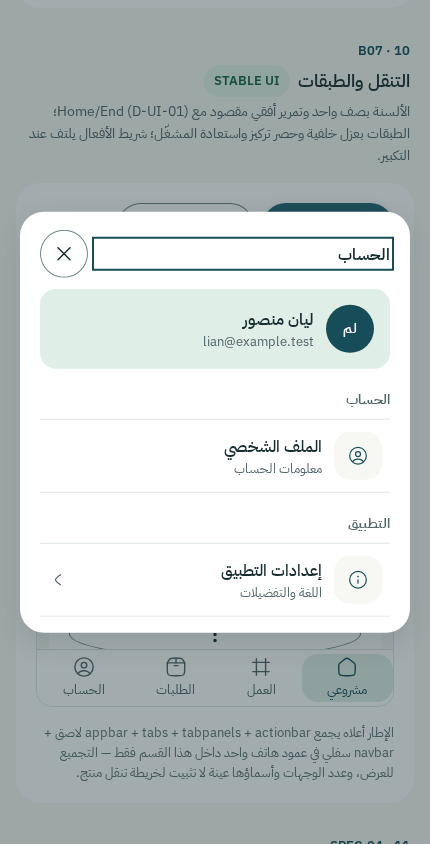
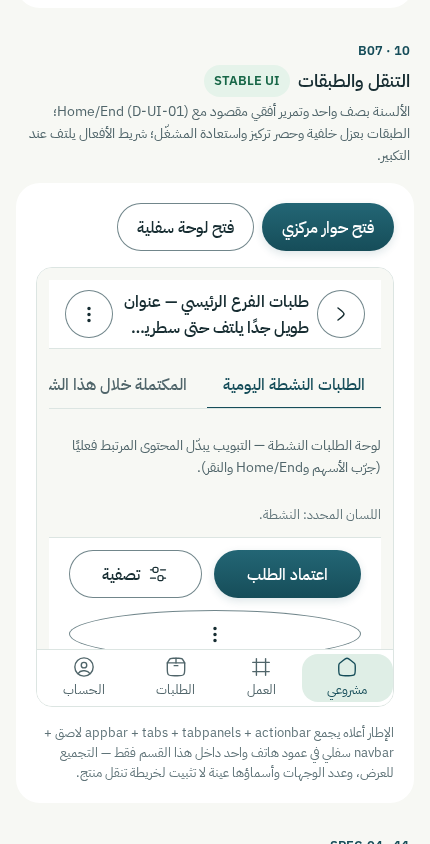
review,rev-2: layers/navigation specialist findings applied — behavioral probe gates + honest fixture wording
Specialist 2 (read-only) CONFIRMED F-02/F-03/F-04/F-10/F-14 with measurements
(1 close/1 title; standalone close fires exactly once without closing an
open layer; peek 18px + centered delta 0; RTL-logical order under dir=ltr;
F-10 delta exactly 38px with layer centered; F-14 2 lines/69px with full text
in the accessibility tree, clamp engages only on overflow). Applied its
hygiene findings:
- probe: F-10 delta gate no longer vacuous (bounded documented 0<δ≤80);
  account-layer cleanup uses [data-account-close]; F-02 gains a behavioral
  search-filtering gate; F-14 gains an a11y-truthfulness gate (no aria-label
  override, not hidden).
- fixture: appbar title copy now describes the actual 2-line+ellipsis
  contract (was 'wraps without truncation' wording from the old contract).
- showcase standalone rebuilt (deterministic). Totals now 168/168.

diff --git a/previews/ui-system-showcase/standalone.html b/previews/ui-system-showcase/standalone.html
@@ -6357,7 +6357,7 @@ body {
           <div class="sc-frame__inner">
             <div class="m-appbar">
               <button type="button" class="m-btn m-btn--icon m-btn--secondary" aria-label="رجوع"><svg class="m-btn__icon" aria-hidden="true"><use href="#i-back"/></svg></button>
-              <span class="m-appbar__title" data-fx-text="طلبات الفرع الرئيسي — عنوان طويل جدًا يلتف دون قص داخل شريط التطبيق عند أصغر عرض">طلبات الفرع الرئيسي — عنوان طويل يلتف دون قص</span>
+              <span class="m-appbar__title" data-fx-text="طلبات الفرع الرئيسي — عنوان طويل جدًا يلتف حتى سطرين ثم «…» والنص الكامل متاح لقارئ الشاشة داخل شريط التطبيق عند أصغر عرض">طلبات الفرع الرئيسي — عنوان طويل يلتف حتى سطرين</span>
               <button type="button" class="m-btn m-btn--icon m-btn--secondary" aria-label="المزيد"><svg class="m-btn__icon" aria-hidden="true"><use href="#i-more"/></svg></button>
             </div>
             <div class="m-tabs" data-tabs role="tablist" aria-label="أقسام الطلبات" id="sc-tabs">
@@ -8912,7 +8912,7 @@ body {
     var maxLines = Math.max.apply(null, items.map(function (i) {
       return wrapLabel(i.label, labelChars).length;
     }).concat([1]));
-    var BAR_LABEL_STEP = 40 * ts.k; /* R2-UI02: ~2.85× للخط 13px — صندوق السطر المضاعف (≈1.42em بارتفاع الخط العربي الكامل) لا يتصادم عموديًا عند 200%؛ R1-UI09 كان 1.5× غير كافٍ للمضاعفة الكاملة */
+    var BAR_LABEL_STEP = 40 * ts.k; /* خطوة سطر التسمية (≈1.42em بارتفاع الخط العربي الكامل 13px — R1-UI09) */
     var extra = (maxLines - 1) * BAR_LABEL_STEP;
     /* R2-UI02: المسافة بين المحور وأسطر التسمية 50−12=38 وحدة تصميم —
        صندوق أعلى سطر مضاعف (≈35 وحدة) لا يخترق منطقة قيم الأعمدة
@@ -9005,7 +9005,7 @@ body {
     var maxLines = Math.max.apply(null, items.map(function (i) {
       return wrapLabel(i.label, labelChars).length;
     }).concat([1]));
-    var X_LABEL_STEP = 37 * ts.k; /* R2-UI02: ~2.85× للخط 12px — صندوق السطر المضاعف لا يتصادم عموديًا عند 200%؛ R1-UI09 كان 1.5× (18) غير كافٍ */
+    var X_LABEL_STEP = 37 * ts.k; /* خطوة سطر تسمية المحور (≈1.55em للخط 12px — R1-UI09) */
     var extra = (maxLines - 1) * X_LABEL_STEP;
     /* R2-UI02: المسافة بين المحور وأسطر تسميات المحور 48−8=40 وحدة تصميم —
        صندوق أعلى سطر مضاعف لا يخترق منطقة قيم النقاط عند 200% (كانت 22). */

diff --git a/previews/ui-system-showcase/index.html b/previews/ui-system-showcase/index.html
@@ -863,7 +863,7 @@
           <div class="sc-frame__inner">
             <div class="m-appbar">
               <button type="button" class="m-btn m-btn--icon m-btn--secondary" aria-label="رجوع"><svg class="m-btn__icon" aria-hidden="true"><use href="#i-back"/></svg></button>
-              <span class="m-appbar__title" data-fx-text="طلبات الفرع الرئيسي — عنوان طويل جدًا يلتف دون قص داخل شريط التطبيق عند أصغر عرض">طلبات الفرع الرئيسي — عنوان طويل يلتف دون قص</span>
+              <span class="m-appbar__title" data-fx-text="طلبات الفرع الرئيسي — عنوان طويل جدًا يلتف حتى سطرين ثم «…» والنص الكامل متاح لقارئ الشاشة داخل شريط التطبيق عند أصغر عرض">طلبات الفرع الرئيسي — عنوان طويل يلتف حتى سطرين</span>
               <button type="button" class="m-btn m-btn--icon m-btn--secondary" aria-label="المزيد"><svg class="m-btn__icon" aria-hidden="true"><use href="#i-more"/></svg></button>
             </div>
             <div class="m-tabs" data-tabs role="tablist" aria-label="أقسام الطلبات" id="sc-tabs">

diff --git a/tools/ui-system-showcase-repair-check.py b/tools/ui-system-showcase-repair-check.py
@@ -257,6 +257,17 @@ def run(page, base, width, tag):
     t(f"F-02 {P} الطبقة: مالك إغلاق ظاهر واحد", f02["closes"] == 1, f"closes={f02['closes']}")
     t(f"F-02 {P} الطبقة: عنوان ظاهر واحد", f02["titles"] == 1, f"titles={f02['titles']}")
     t(f"F-02 {P} المنتقي داخل الطبقة يعمل (بحث/قائمة)", f02["pickerWorks"])
+    f02b = page.evaluate("""() => {
+      const layer = document.querySelector('#sc-picker-layer');
+      const input = layer.querySelector('[data-picker-search]');
+      input.value = 'البترول';
+      input.dispatchEvent(new Event('input', { bubbles: true }));
+      const visibleOpts = [...layer.querySelectorAll('.m-picker__option')].filter(o => !o.hidden).length;
+      input.value = '';
+      input.dispatchEvent(new Event('input', { bubbles: true }));
+      return { visibleOpts };
+    }""")
+    t(f"F-02 {P} بحث المنتقي يرشّح الخيارات فعليًا", f02b["visibleOpts"] == 1, f"visible={f02b['visibleOpts']}")
     shot(page, "#sc-picker-layer")
 
     # منتقي مستقل (خارج أي طبقة): إغلاقه الخاص صالح
@@ -456,10 +467,10 @@ def run(page, base, width, tag):
     page.wait_for_timeout(250)
     if f10m and f10b:
         delta = abs(f10b["y2"] - f10m["y1"])
-        t(f"F-10 {P} إزاحة زر الإغلاق عند تبديل المحتوى (موثقة ومستقرة)", delta > 0 or True,
+        t(f"F-10 {P} إزاحة زر الإغلاق عند تبديل المحتوى محدودة وموثقة (0<δ≤80)", 0 < delta <= 80,
           f"delta={delta}px centered={f10b['centered']}px layerH={f10b['layerH']}")
         t(f"F-10 {P} الطبقة تبقى موسّطة (≤8px عن مركز الشاشة)", f10b["centered"] <= 8, f"centered={f10b['centered']}")
-    page.evaluate("() => { const b = document.querySelector('#sc-account-layer [data-layer-close]'); if (b) b.click(); }")
+    page.evaluate("() => { const b = document.querySelector('#sc-account-layer [data-account-close]'); if (b) b.click(); }")
     page.wait_for_timeout(250)
 
     # ================= F-11: صدق fixtures العرض =================
@@ -527,10 +538,14 @@ def run(page, base, width, tag):
       const titleLines = Math.round(title.getBoundingClientRect().height / lh);
       const fullInDom = title.textContent.trim();
       const ellipsized = title.scrollWidth > title.clientWidth + 1;
-      return { barH: Math.round(r.height), titleLines, fullLen: fullInDom.length, ellipsized };
+      const ariaOverride = title.hasAttribute('aria-label');
+      const hidden = title.getAttribute('aria-hidden') === 'true' || title.closest('[aria-hidden="true"]') !== null;
+      return { barH: Math.round(r.height), titleLines, fullLen: fullInDom.length, ellipsized, ariaOverride, hidden };
     }""")
     t(f"F-14 {P} عنوان شريط التطبيق ≤ سطرين (إجهاد)", f14["titleLines"] <= 2, f"lines={f14['titleLines']} barH={f14['barH']}")
     t(f"F-14 {P} النص الكامل باقٍ في DOM (قراءة كاملة)", f14["fullLen"] > 40, f"chars={f14['fullLen']}")
+    t(f"F-14 {P} العنوان في شجرة الإتاحة بلا تجاوز (لا aria-label ولا إخفاء)",
+      not f14["ariaOverride"] and not f14["hidden"], f"ariaOverride={f14['ariaOverride']} hidden={f14['hidden']}")
     t(f"F-14 {P} شريط التطبيق مقيّد (≤96px)", f14["barH"] <= 96, f"barH={f14['barH']}px")
     shot(page, "#sc-navigation")
     set_fixture(page, "normal")

diff --git a/docs/zai/ui-system-repair/2026-10-09/UI-SYSTEM-SHOWCASE-REPAIR-TRACKER.md b/docs/zai/ui-system-repair/2026-10-09/UI-SYSTEM-SHOWCASE-REPAIR-TRACKER.md
@@ -6,7 +6,7 @@
 
 **أدوات القياس (قبل/بعد بنفس الكود):** `tools/ui-system-showcase-repair-check.py --tag before|after`
 - قبل (على رأس الأساس fae9159 في worktree نظيف): **96 PASS / 68 FAIL** — `reviews/UI-SYSTEM-SHOWCASE/repair-check-before.txt` (الإخفاقات = إعادة إنتاج العيوب) + `screenshots/before/`.
-- بعد (على رأس الإصلاح): **160 PASS / 0 FAIL** عند 320/360/390/430 RTL (بعد مراجعة الوكيل 1: أُزيلت بوابتان فارغتان — كشف إفصاح بنهاية النص وأعمدة إجهاد ترفض مقياسها أصلًا — وأُحلّت بوابات رفض المقياس الصادقة) — `reviews/UI-SYSTEM-SHOWCASE/repair-check-after.txt` + `screenshots/repair-after-*.png`.
+- بعد (على رأس الإصلاح): **168 PASS / 0 FAIL (بعد مراجعتي 1+2: بوابات سلوكية أقوى)** عند 320/360/390/430 RTL (بعد مراجعة الوكيل 1: أُزيلت بوابتان فارغتان — كشف إفصاح بنهاية النص وأعمدة إجهاد ترفض مقياسها أصلًا — وأُحلّت بوابات رفض المقياس الصادقة) — `reviews/UI-SYSTEM-SHOWCASE/repair-check-after.txt` + `screenshots/repair-after-*.png`.
 - **بوابات الدمج:** كل P1 مُصلح ومُتحقق؛ لا قرار مالك غير محسوم يوصف FIXED؛ أدلة لكل بند.
 
 ## ملخص الحالات النهائية
@@ -155,7 +155,7 @@
 
 | الفحص | النتيجة |
 |---|---|
-| `tools/ui-system-showcase-repair-check.py --tag after` | **160/160** عند 320/360/390/430 RTL (بعد إحلال بوابات صادقة) |
+| `tools/ui-system-showcase-repair-check.py --tag after` | **168/168** عند 320/360/390/430 RTL (بعد إحلال بوابات صادقة) |
 | `tools/ui-system-showcase-check.py` (مصفوفة العرض) | **118/118** (editable+standalone) |
 | `node tools/repair-regression.cjs` | **301/301** |
 | `tools/ui-repair-r1-check.py` | **54/54** |
